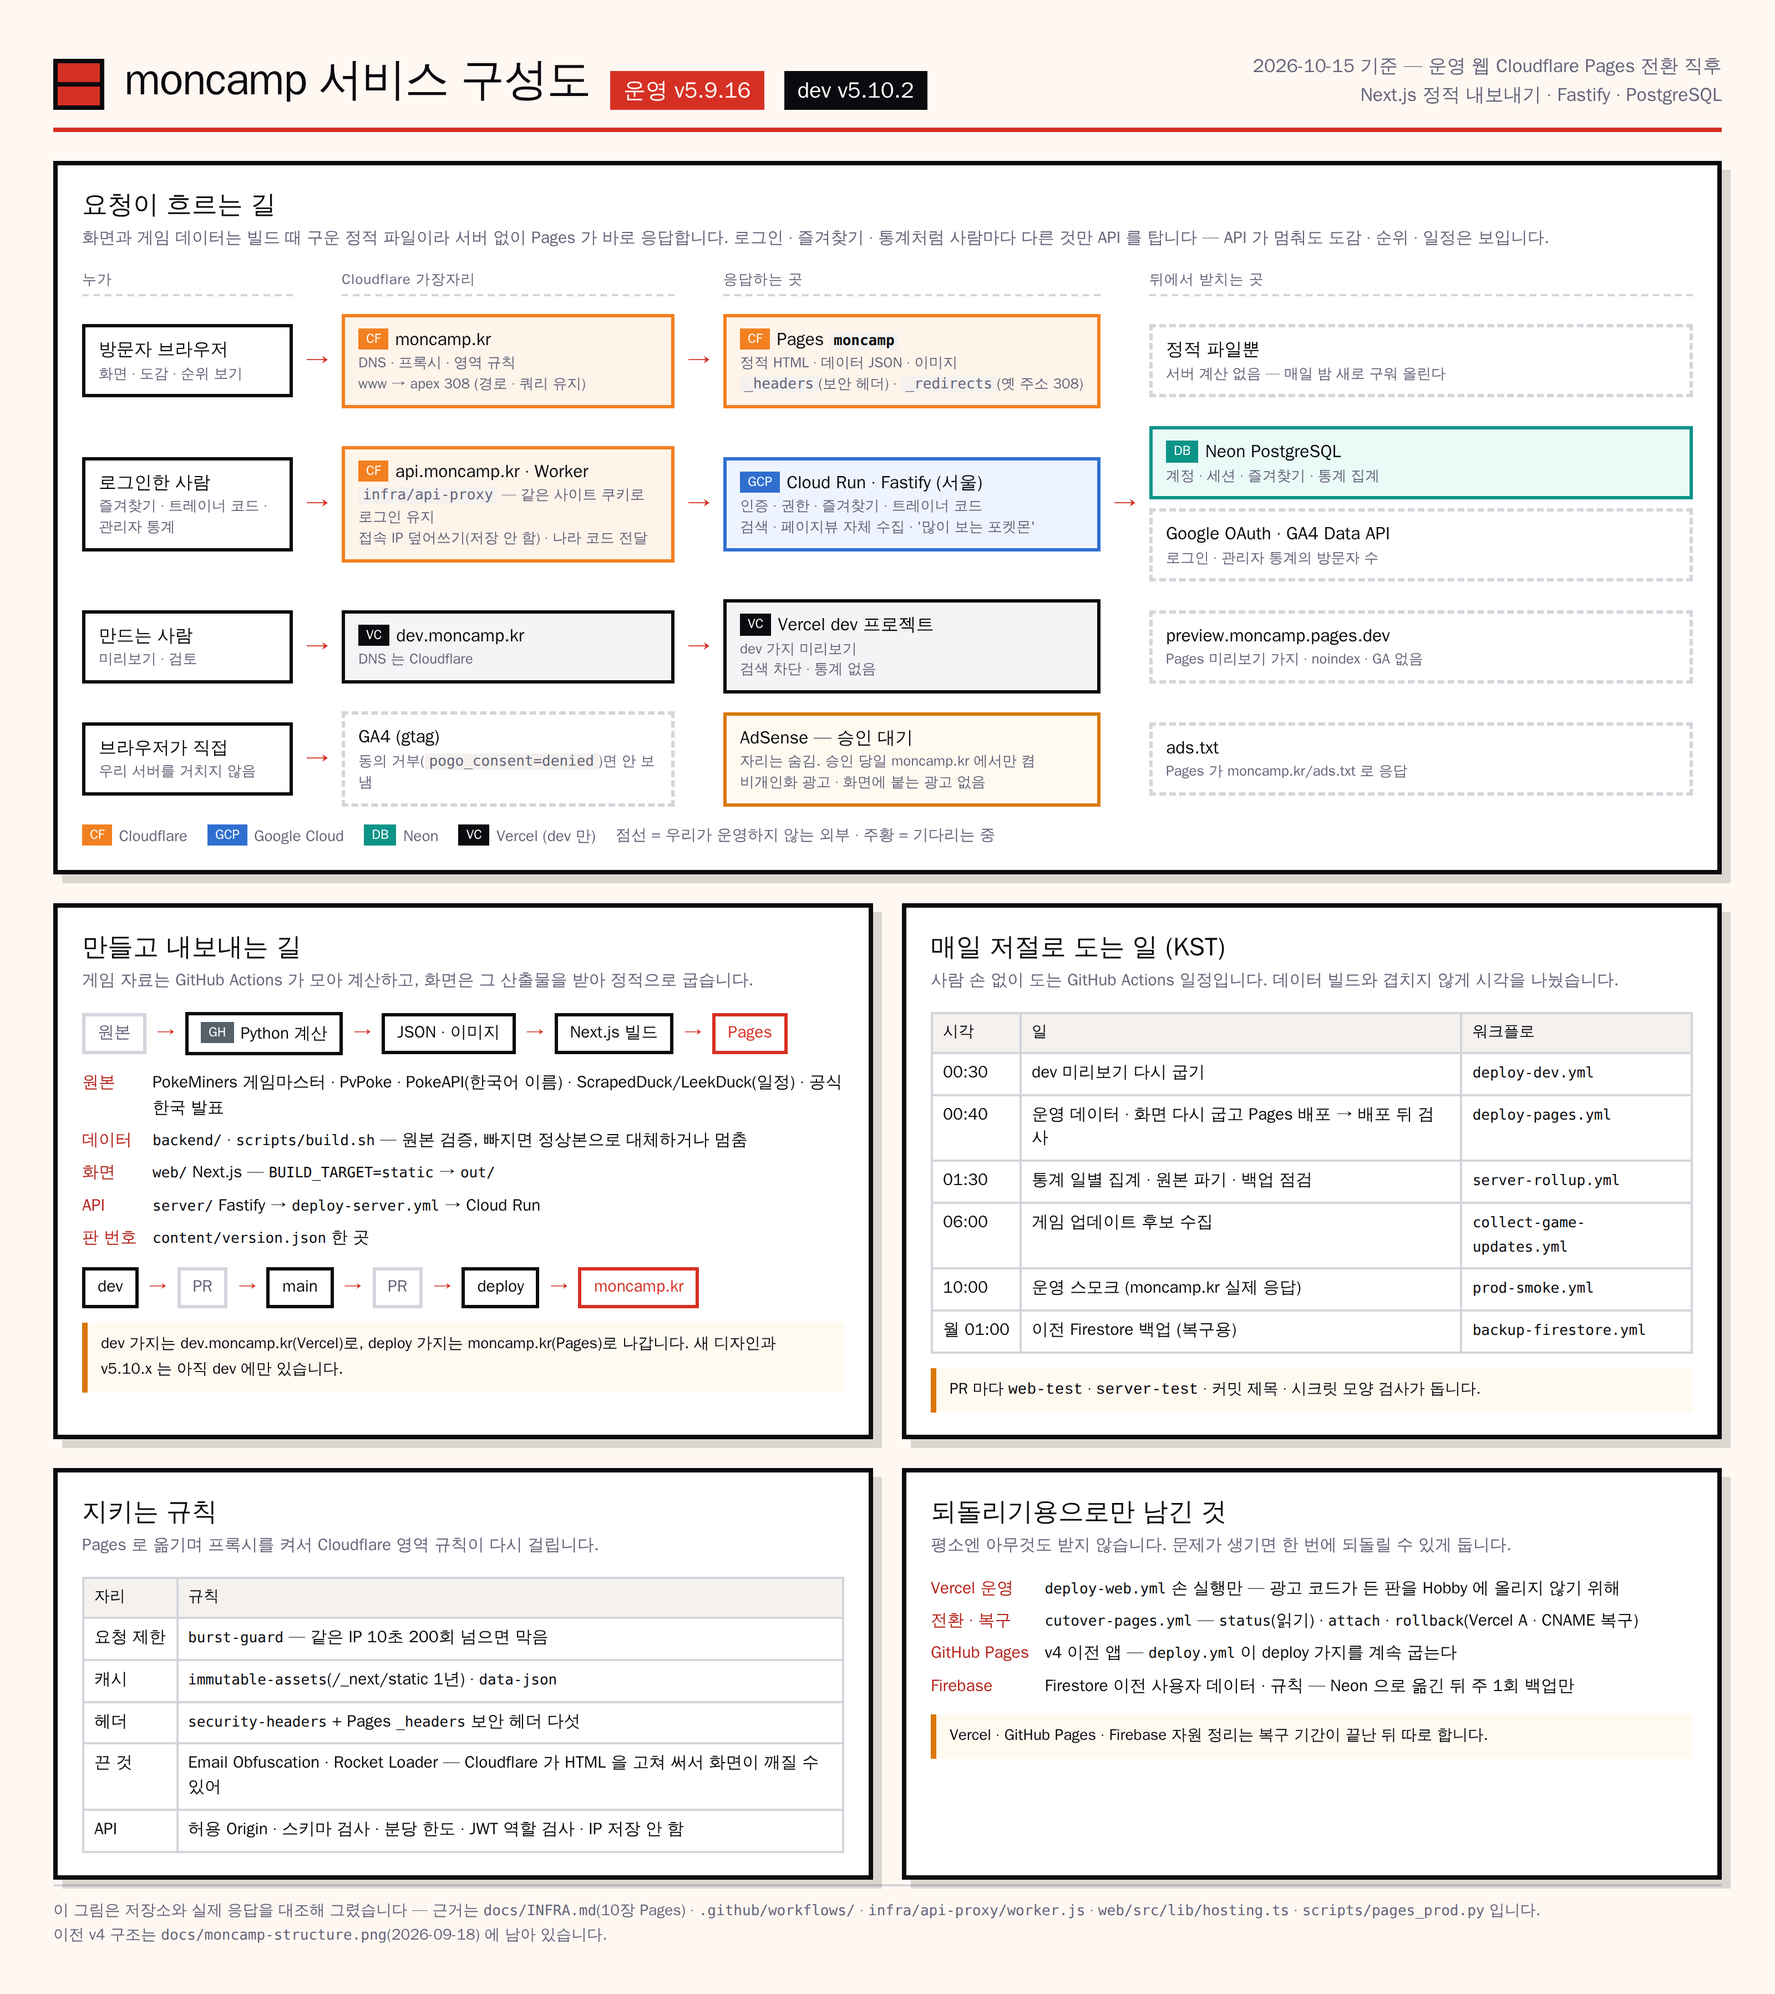
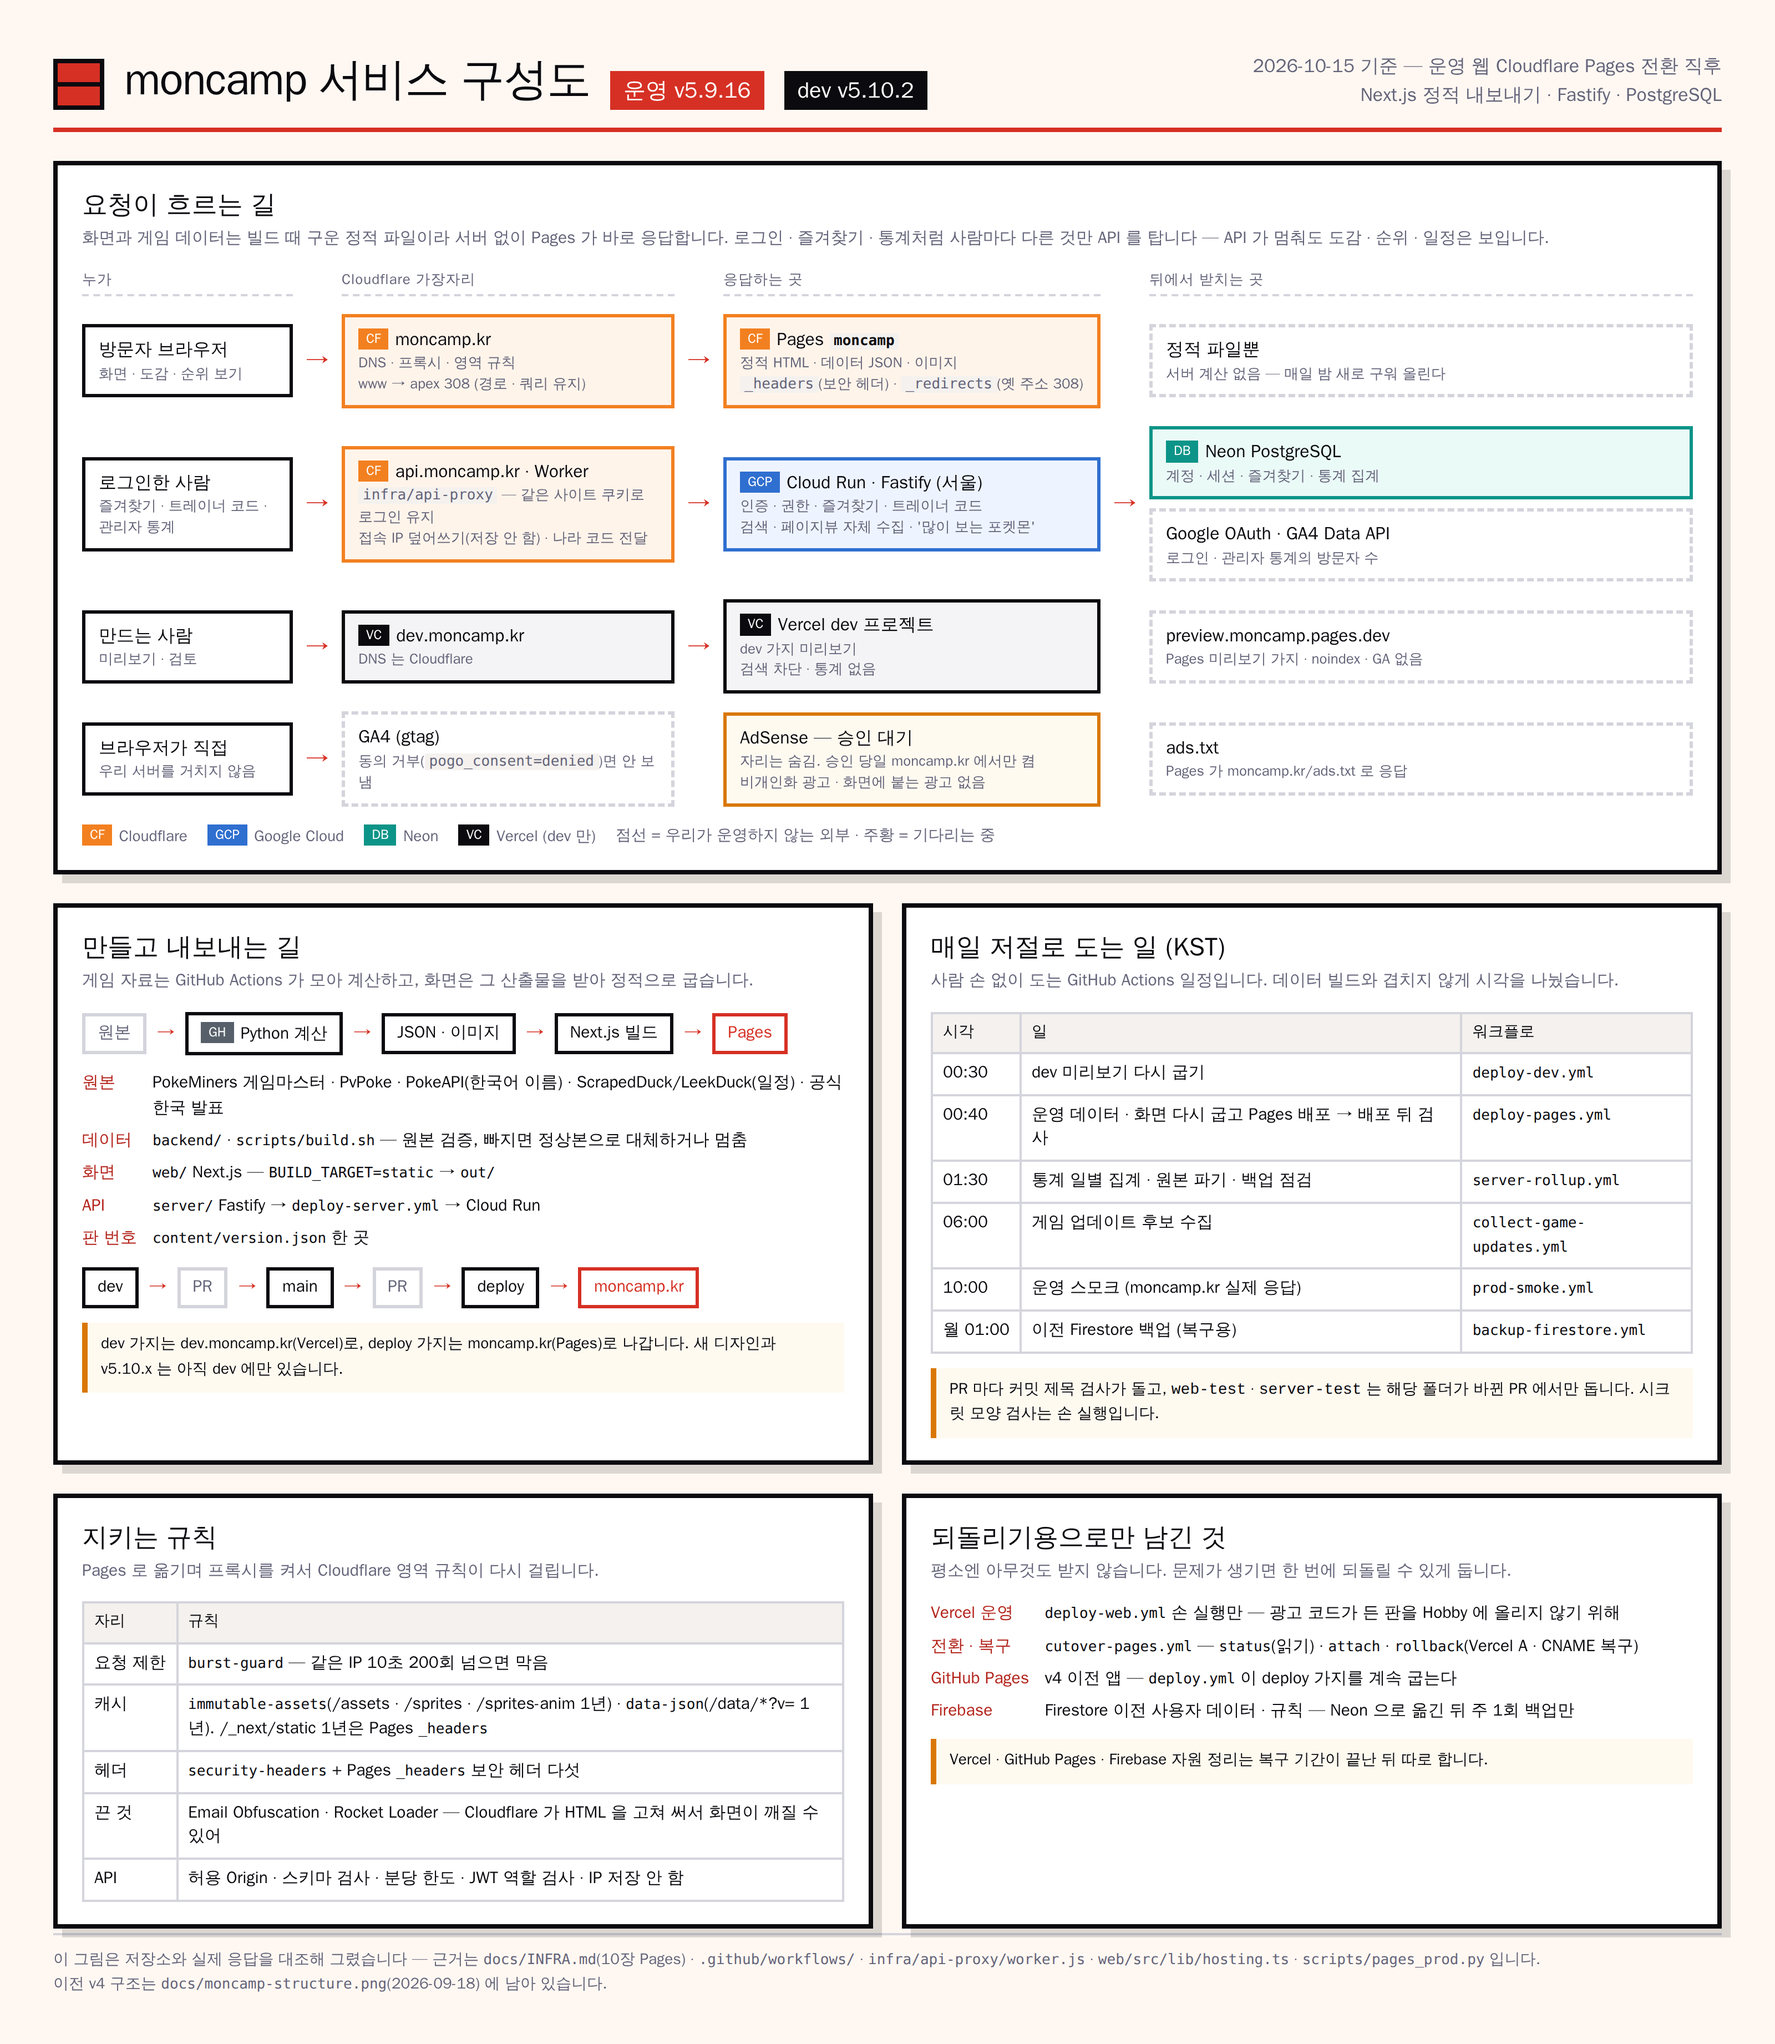
docs: 구성도 캐시 규칙 경로 · PR 검사 범위 바로잡기
Claude-Session: https://claude.ai/code/session_01PaoshRffrJd3DDBJvkBt2X

Changed region(s): [[0.0312, 0.0312, 1.0, 0.9661]]

diff --git a/docs/moncamp-architecture.html b/docs/moncamp-architecture.html
@@ -168,7 +168,7 @@
       <tr><td class="w">10:00</td><td>운영 스모크 (moncamp.kr 실제 응답)</td><td><code>prod-smoke.yml</code></td></tr>
       <tr><td class="w">월 01:00</td><td>이전 Firestore 백업 (복구용)</td><td><code>backup-firestore.yml</code></td></tr>
     </table>
-    <div class="note">PR 마다 <code>web-test</code> · <code>server-test</code> · 커밋 제목 · 시크릿 모양 검사가 돕니다.</div>
+    <div class="note">PR 마다 커밋 제목 검사가 돌고, <code>web-test</code> · <code>server-test</code> 는 해당 폴더가 바뀐 PR 에서만 돕니다. 시크릿 모양 검사는 손 실행입니다.</div>
   </div>
 
   <div class="card">
@@ -177,7 +177,7 @@
     <table>
       <tr><th>자리</th><th>규칙</th></tr>
       <tr><td class="w">요청 제한</td><td><code>burst-guard</code> — 같은 IP 10초 200회 넘으면 막음</td></tr>
-      <tr><td class="w">캐시</td><td><code>immutable-assets</code>(/_next/static 1년) · <code>data-json</code></td></tr>
+      <tr><td class="w">캐시</td><td><code>immutable-assets</code>(/assets · /sprites · /sprites-anim 1년) · <code>data-json</code>(/data/*?v= 1년). /_next/static 1년은 Pages <code>_headers</code></td></tr>
       <tr><td class="w">헤더</td><td><code>security-headers</code> + Pages <code>_headers</code> 보안 헤더 다섯</td></tr>
       <tr><td class="w">끈 것</td><td>Email Obfuscation · Rocket Loader — Cloudflare 가 HTML 을 고쳐 써서 화면이 깨질 수 있어</td></tr>
       <tr><td class="w">API</td><td>허용 Origin · 스키마 검사 · 분당 한도 · JWT 역할 검사 · IP 저장 안 함</td></tr>
